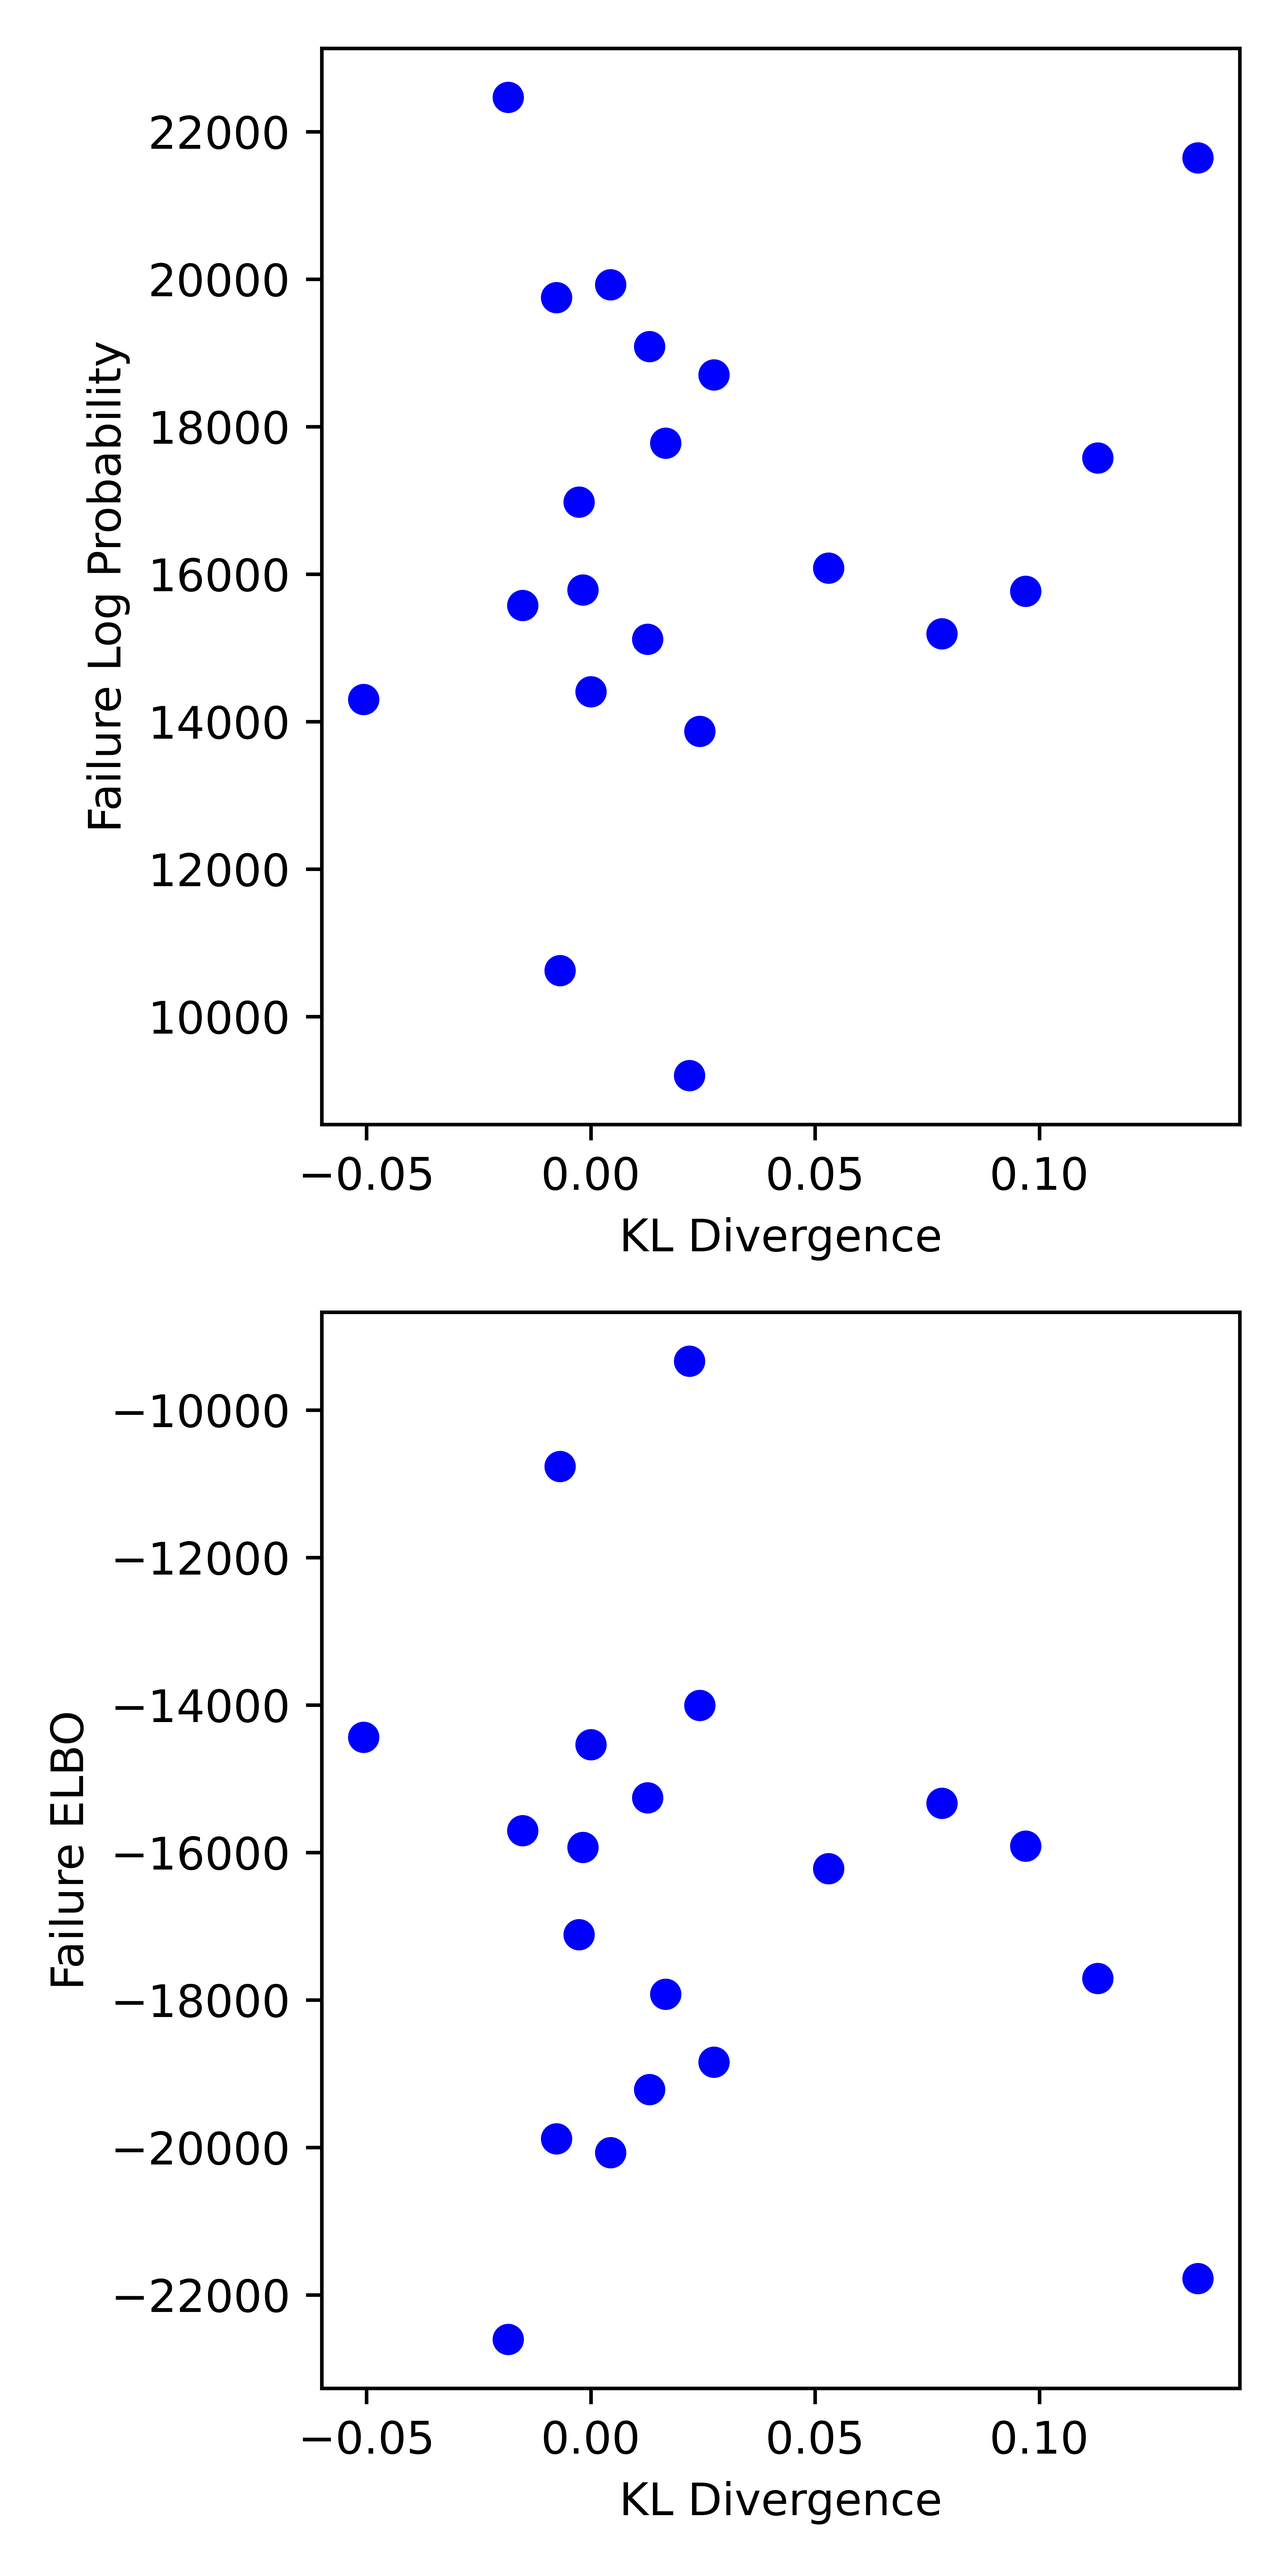
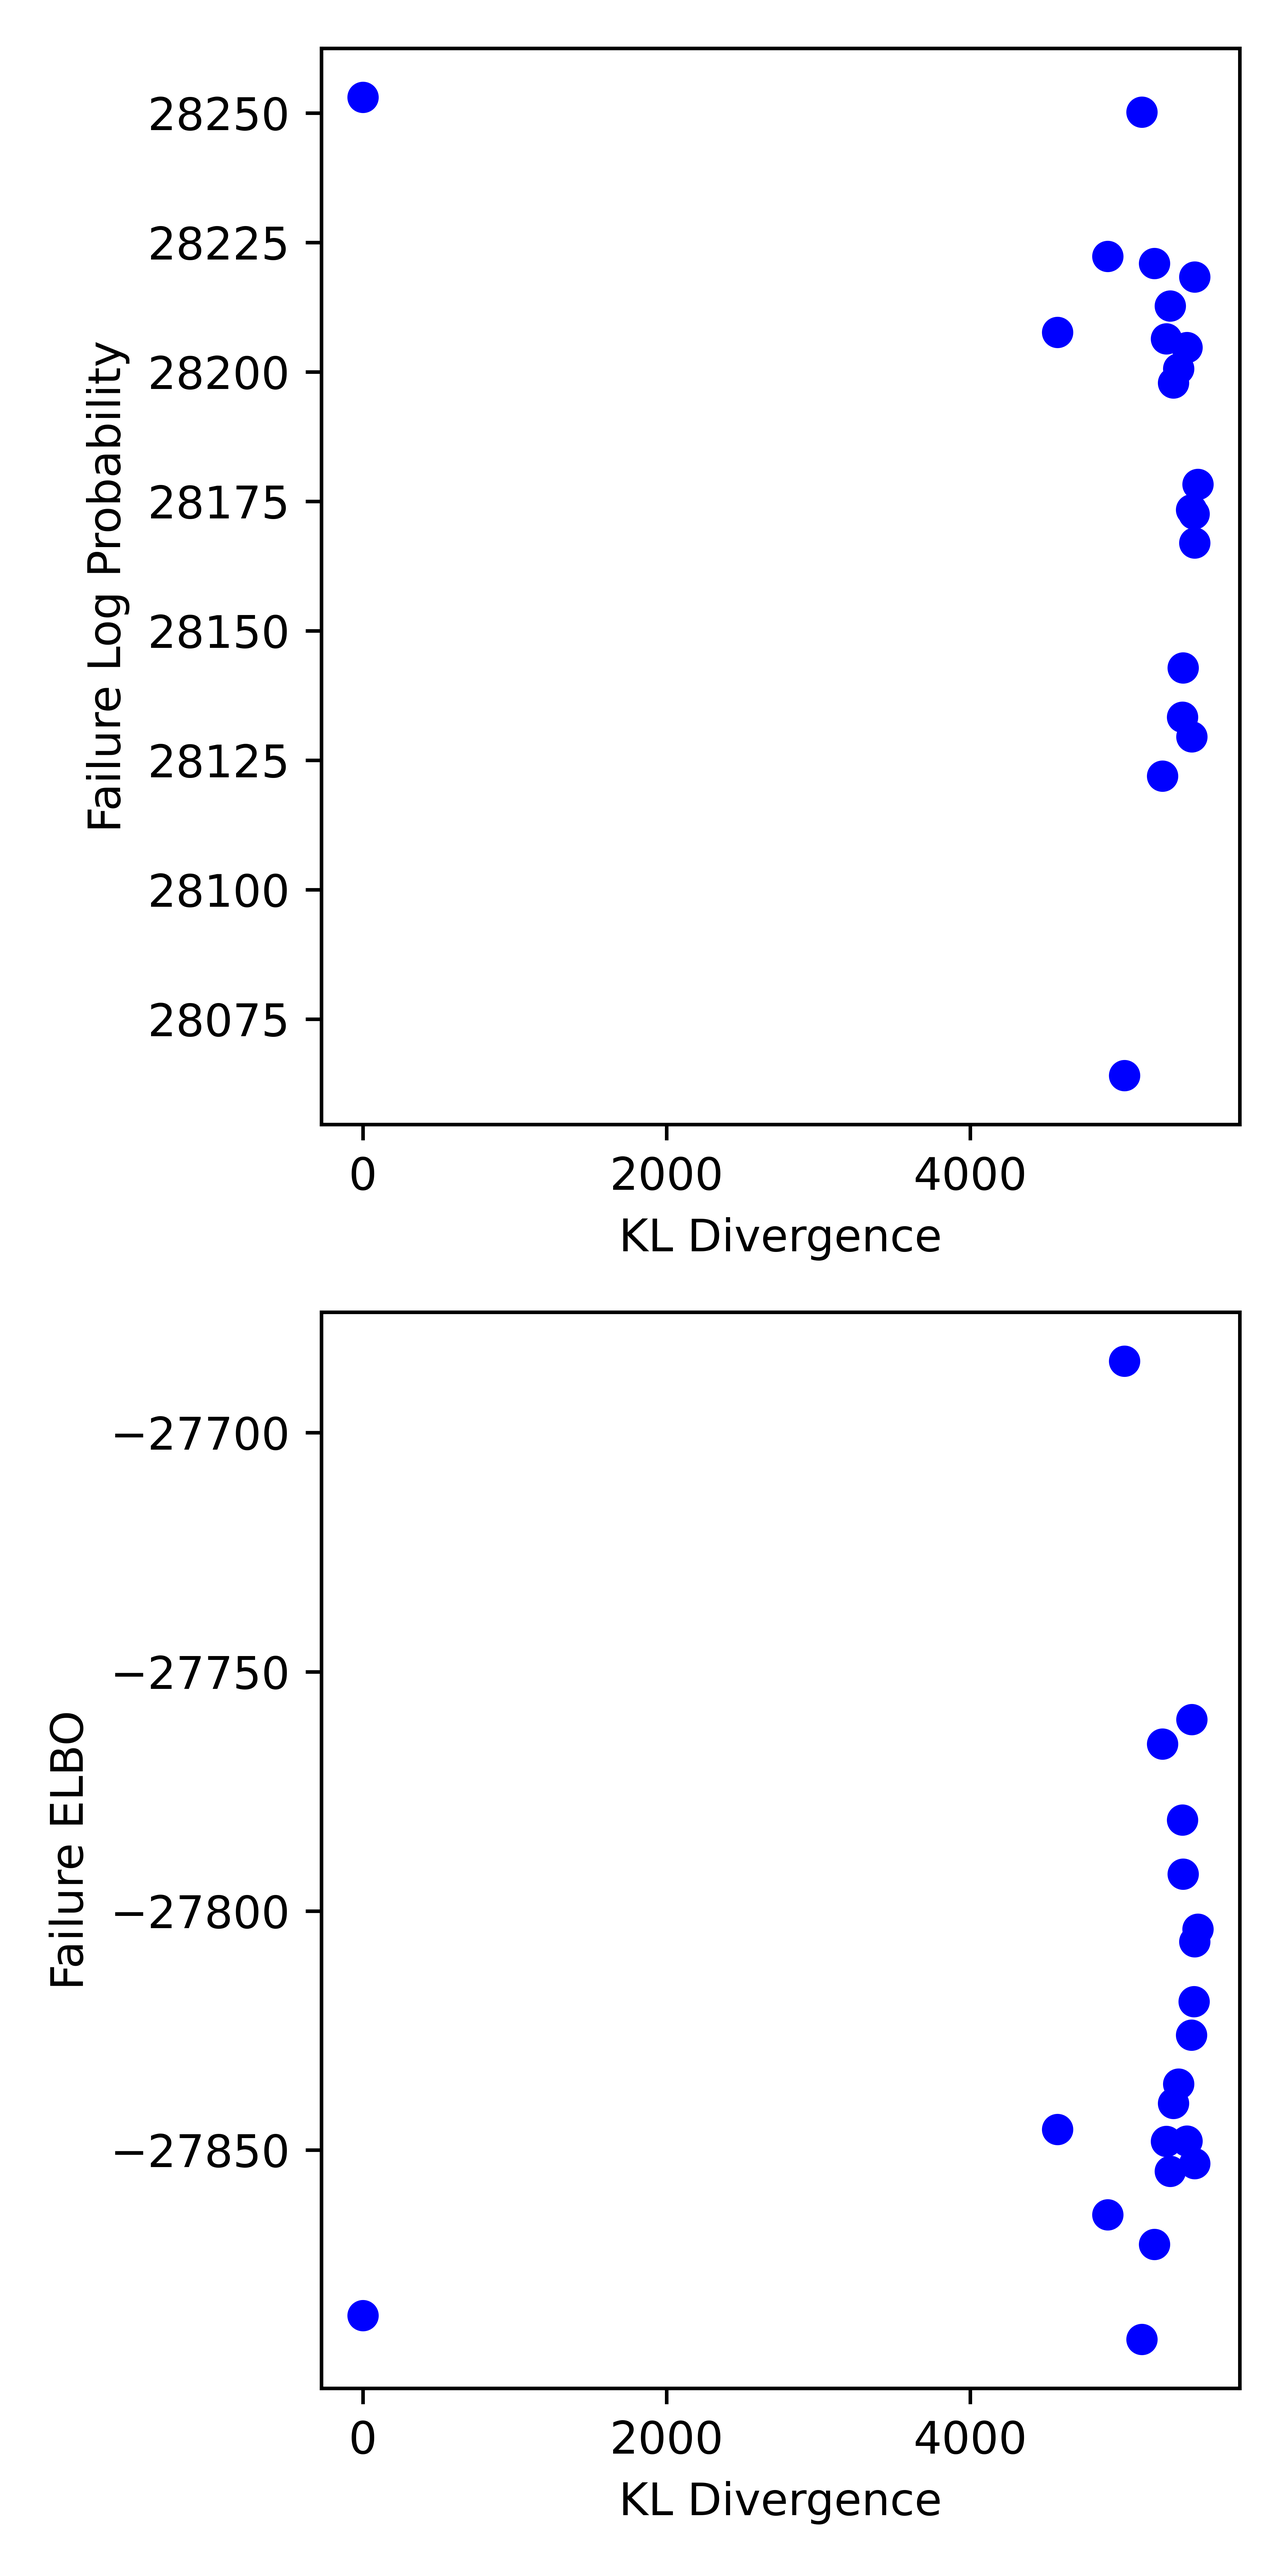
more training

diff --git a/scripts/seismic/train.py b/scripts/seismic/train.py
@@ -353,7 +353,7 @@ def train(
             # loss += divergence_weight * failure_divergence
             samples = failure_guide(failure_label).rsample((num_divergence_particles,))
             nominal_logprob = nominal_guide(nominal_label).log_prob(samples).mean()
-            loss += divergence_weight * nominal_logprob
+            loss -= divergence_weight * nominal_logprob
 
         # Step the optimizer
         loss.backward()
@@ -440,7 +440,7 @@ def train(
 @click.option("--no-amortize", is_flag=True, help="Don't amortize the guide")
 @click.option("--regularize", is_flag=True, help="Regularize failure using nominal")
 @click.option("--seed", default=0, help="Random seed")
-@click.option("--num-steps", default=400, type=int, help="Number of steps")
+@click.option("--num-steps", default=300, type=int, help="Number of steps")
 @click.option("--lr", default=1e-2, type=float, help="Learning rate")
 @click.option("--lr-gamma", default=0.1, type=float, help="Learning rate decay")
 @click.option("--lr-steps", default=200, type=int, help="Steps per learning rate decay")
